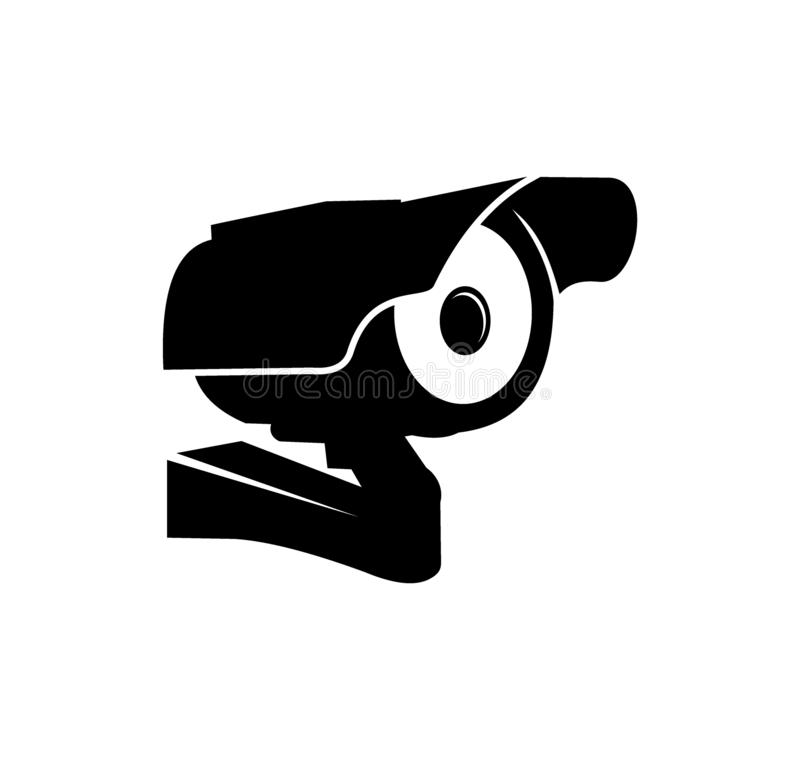
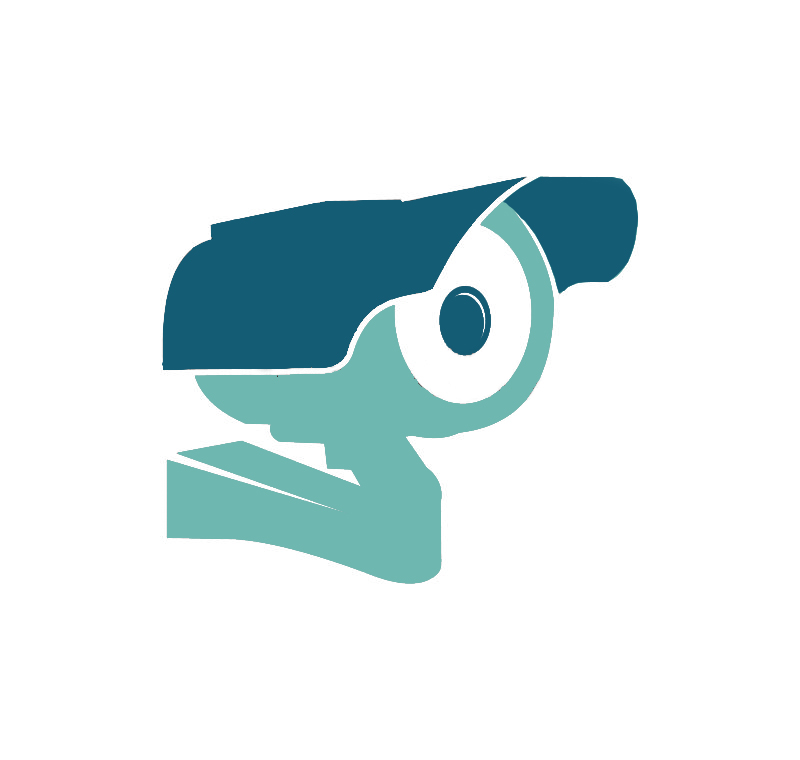
flipping buttons ready, navbar modifications

Changed region(s): [[0.1875, 0.2118, 0.8125, 0.7868]]

diff --git a/index.html b/index.html
@@ -1,12 +1,14 @@
 <!doctype html>
 <html lang="en">
   <head>
+    <link href='https://fonts.googleapis.com/css?family=Audiowide' rel='stylesheet'>
+    <link rel="icon" href="images/favicon.ico">
     <meta charset="utf-8">
     <meta name="viewport" content="width=device-width, initial-scale=1, shrink-to-fit=no">
     <meta name="description" content="">
     <meta name="author" content="Mark Otto, Jacob Thornton, and Bootstrap contributors">
     <meta name="generator" content="Jekyll v4.1.1">
-    <title>Carousel Template · Bootstrap</title>
+    <title>Nek-tech</title>
 
     <link rel="canonical" href="https://getbootstrap.com/docs/4.5/examples/carousel/">
 
@@ -35,14 +37,19 @@
   <body>
     <header>
   <nav class="navbar navbar-expand-md navbar-dark fixed-top bg-dark">
-    <a class="navbar-brand" href="#">Carousel</a>
+    <a href="#" role="button">
+      <div class="logo-navbar">
+        <img width="50px" height="50px" src="images/logo2.png" alt=""></td>
+      </div>
+    </a>
+    <a class="navbar-brand" href="#">Nek-tech</a>
     <button class="navbar-toggler" type="button" data-toggle="collapse" data-target="#navbarCollapse" aria-controls="navbarCollapse" aria-expanded="false" aria-label="Toggle navigation">
       <span class="navbar-toggler-icon"></span>
     </button>
     <div class="collapse navbar-collapse" id="navbarCollapse">
       <ul class="navbar-nav mr-auto">
         <li class="nav-item active">
-          <a class="nav-link" href="#">Home <span class="sr-only">(current)</span></a>
+          <a class="nav-link" href="#">+36707766301 <span class="sr-only">(current)</span></a>
         </li>
         <li class="nav-item">
           <a class="nav-link" href="#">Link</a>
@@ -51,10 +58,10 @@
           <a class="nav-link disabled" href="#" tabindex="-1" aria-disabled="true">Disabled</a>
         </li>
       </ul>
-      <form class="form-inline mt-2 mt-md-0">
+<!--      <form class="form-inline mt-2 mt-md-0">
         <input class="form-control mr-sm-2" type="text" placeholder="Search" aria-label="Search">
         <button class="btn btn-outline-success my-2 my-sm-0" type="submit">Search</button>
-      </form>
+      </form> -->
     </div>
   </nav>
 </header>

diff --git a/css/carousel.css b/css/carousel.css
@@ -11,6 +11,13 @@ body {
   color: #5a5a5a;
 }
 
+.logo-navbar{
+  margin:0 20px 0 10px;
+}
+
+.navbar-brand{
+  font-family: Audiowide;
+}
 
 /* CUSTOMIZE THE CAROUSEL
 -------------------------------------------------- */
